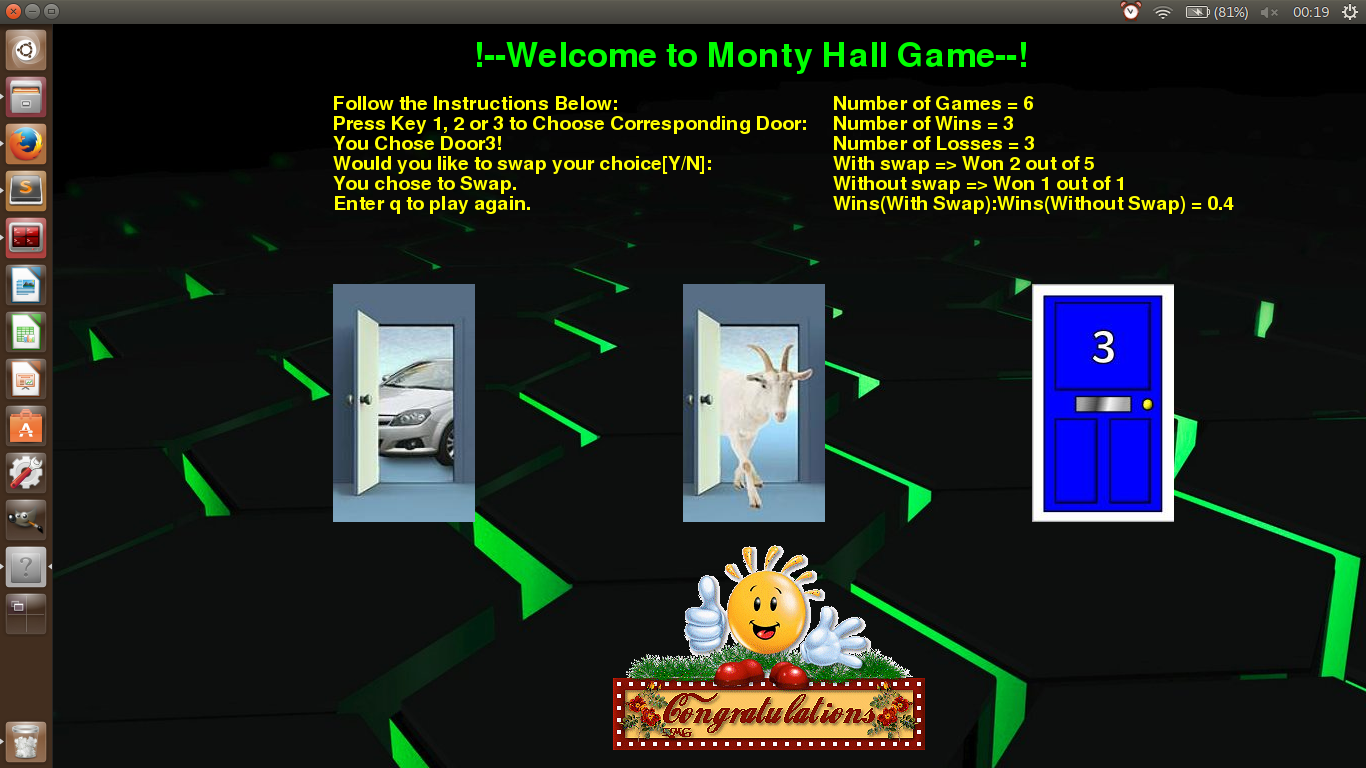
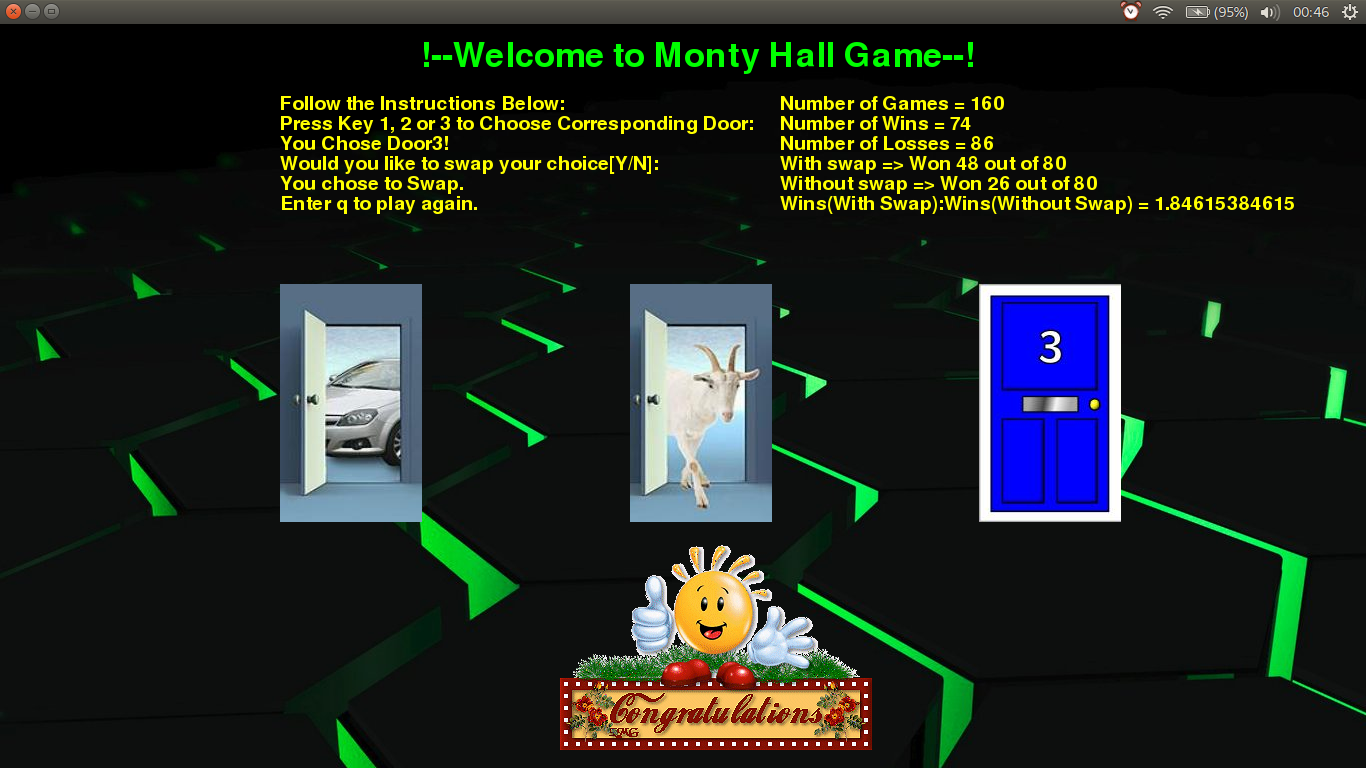
added background and sound

diff --git a/README.md b/README.md
@@ -47,7 +47,7 @@ The probability of winning the Car after swapping = probability of chosing a Goa
 The probability of winning a Goat after swapping = probability of chosing the Car at the first attempt = 1/3 <br />
 
 So the ratio of wins and losses should be close to 2. --((2/3)/1/3)-- <br />
-Now see the below screenshot from the game. The ratio is 2.2. <br />
+Now see the below screenshot from the game. The ratio is ~1.85. <br />
 
 # Screenshot
 
